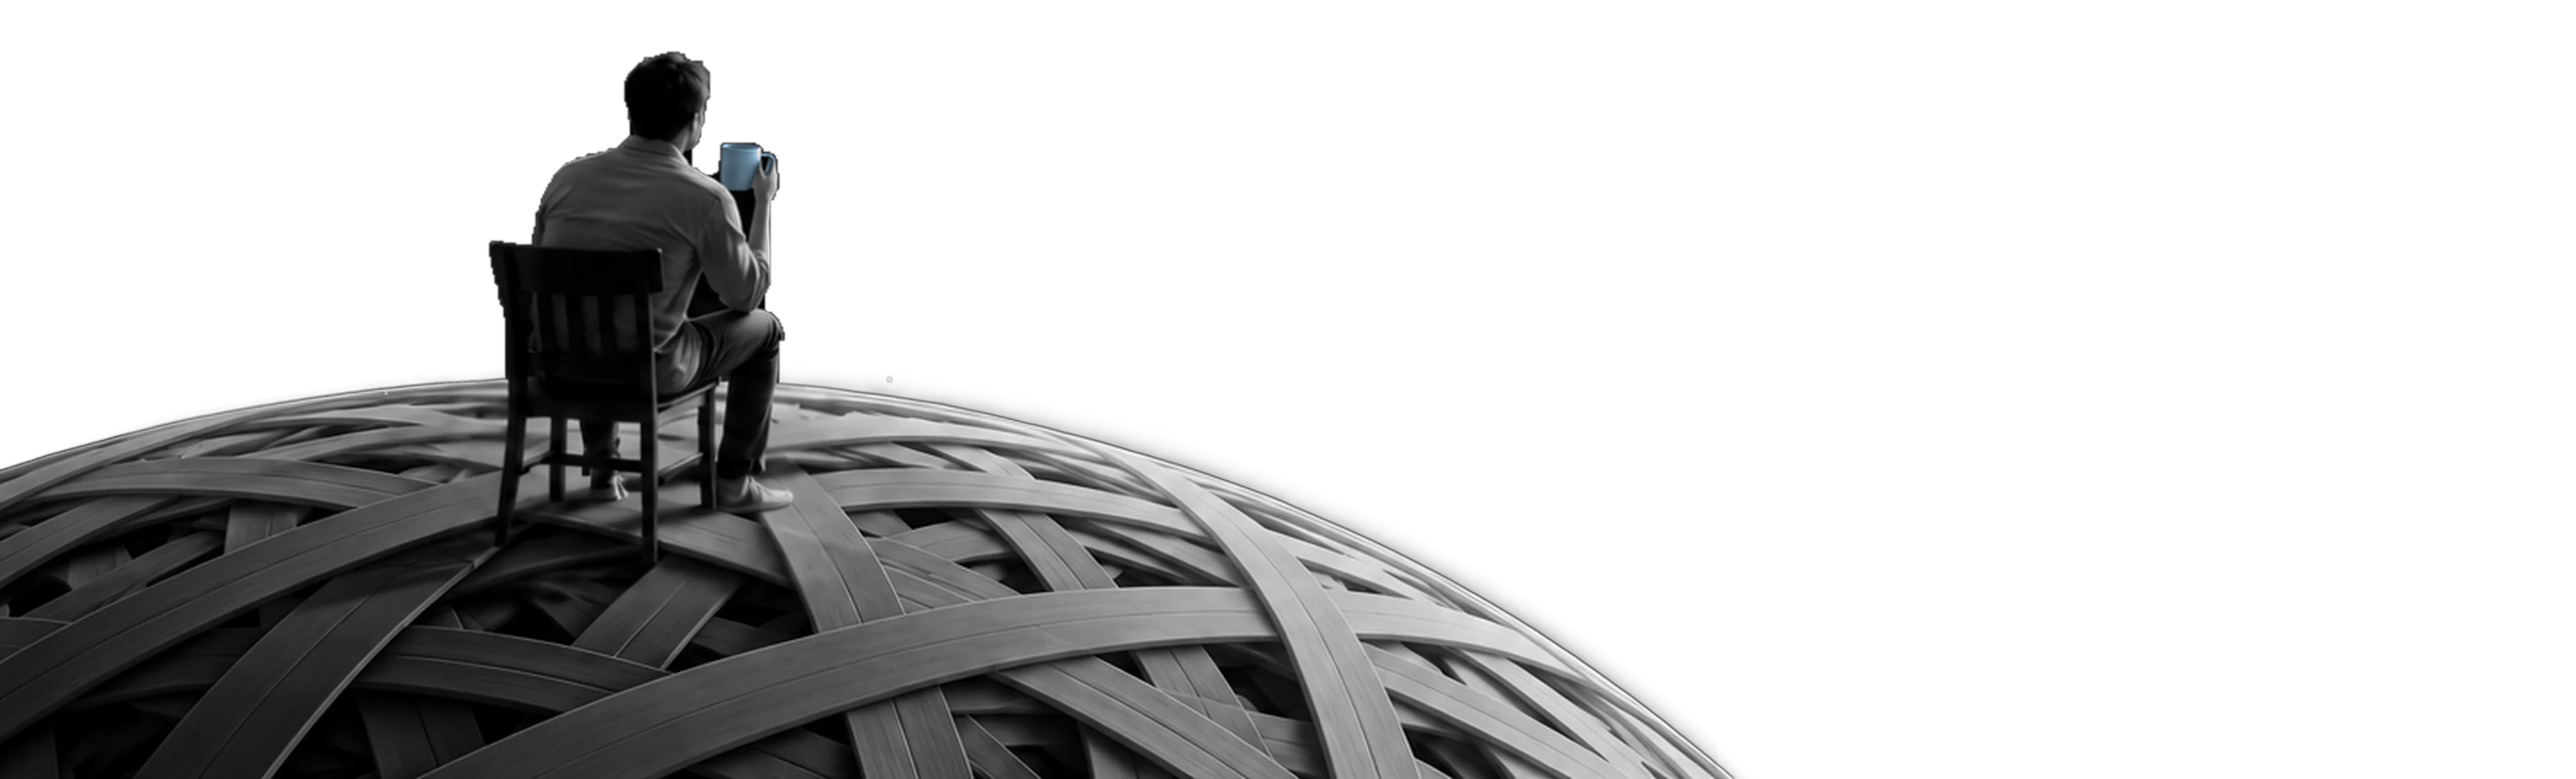
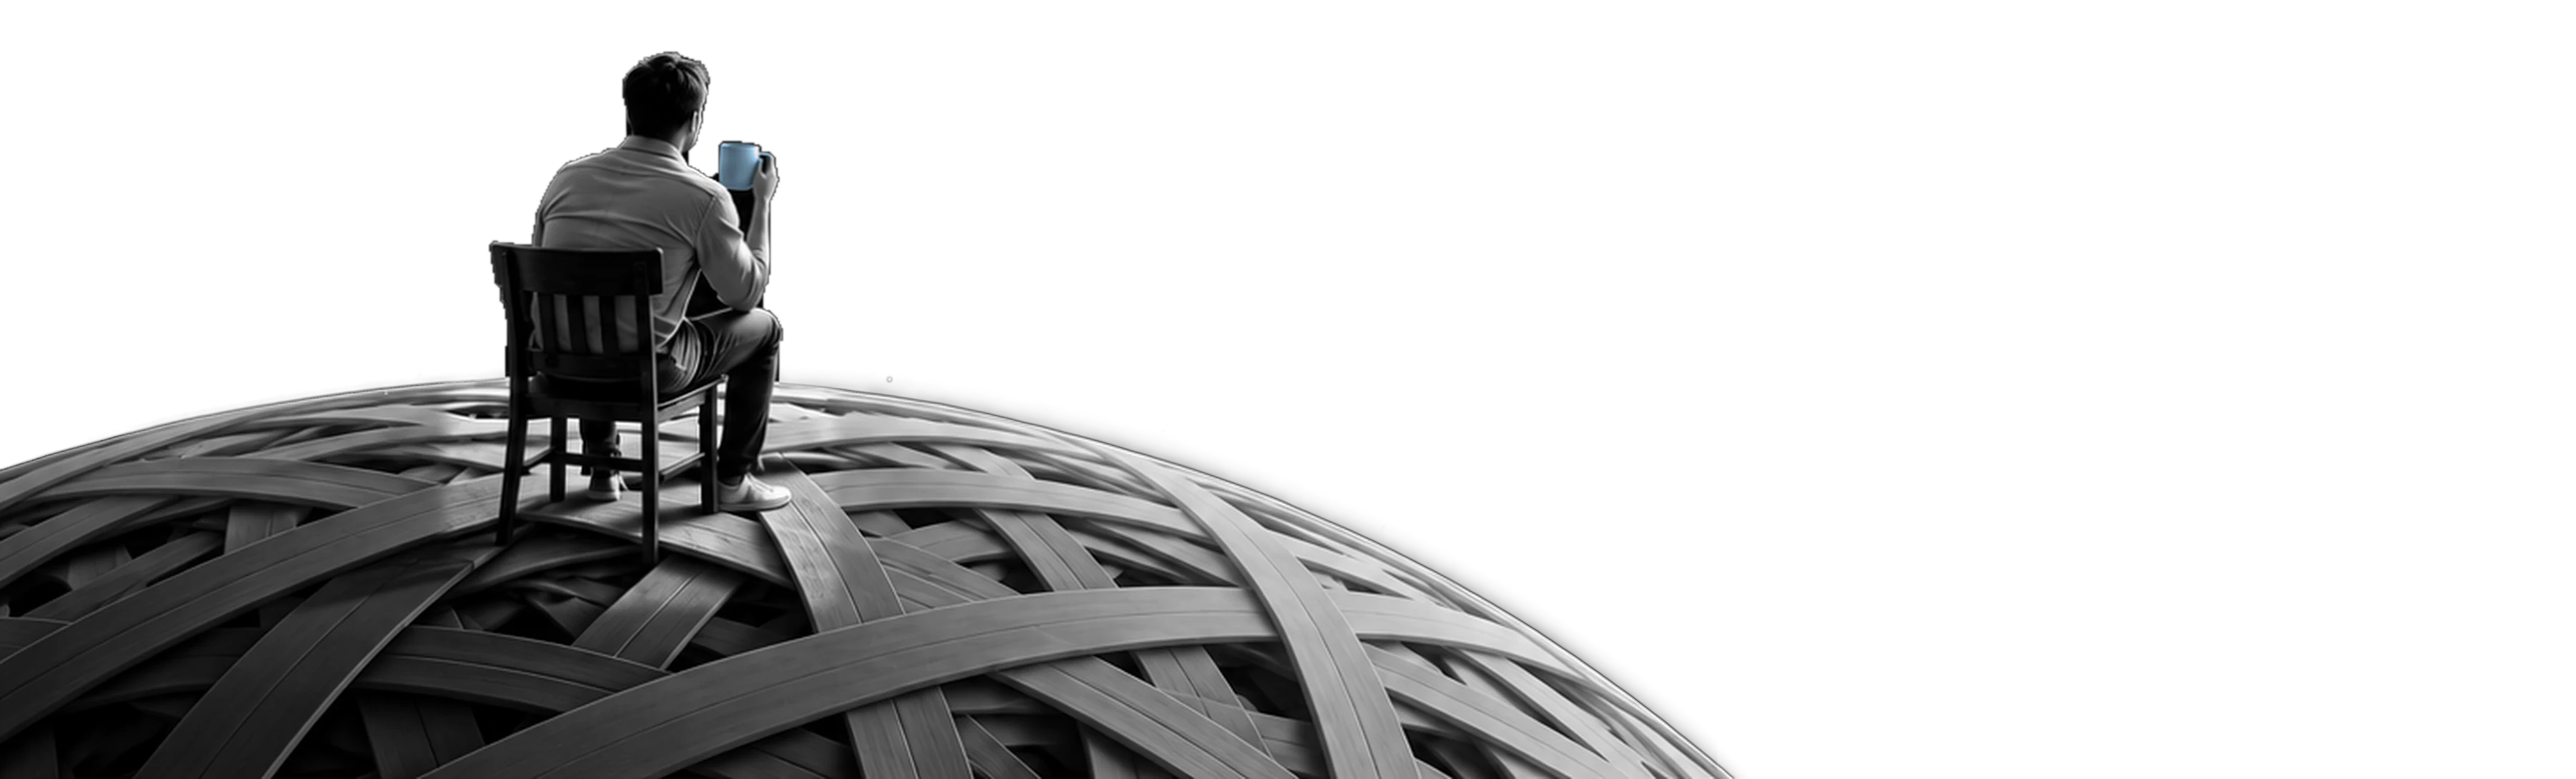
Coffee version: new, more realistic coffee artwork

Changed region(s): [[0.1556, 0.0624, 0.3422, 0.7798], [0.1867, 0.7174, 0.2178, 0.7486]]

diff --git a/index.html b/index.html
@@ -14,7 +14,7 @@
 <meta name="twitter:card" content="summary">
 <link rel="icon" href="favicon.png" type="image/png">
 <link rel="apple-touch-icon" href="apple-touch-icon.png">
-<link rel="preload" href="foreground.webp?v=coffee1" as="image" type="image/webp">
+<link rel="preload" href="foreground.webp?v=coffee2" as="image" type="image/webp">
 <link rel="preconnect" href="https://fonts.googleapis.com">
 <link rel="preconnect" href="https://fonts.gstatic.com" crossorigin>
 <link href="https://fonts.googleapis.com/css2?family=Inter+Tight:wght@300;400;500;600&family=JetBrains+Mono:wght@400;500&display=swap" rel="stylesheet">
@@ -117,7 +117,7 @@ footer{max-width:1180px;margin:0 auto;padding:0 clamp(24px,5vw,56px) 48px;displa
 </nav>
 
 <header class="hero">
-  <div class="fg" aria-hidden="true"><img src="foreground.webp?v=coffee1" alt="" width="3600" height="1090" decoding="async" fetchpriority="high"></div>
+  <div class="fg" aria-hidden="true"><img src="foreground.webp?v=coffee2" alt="" width="3600" height="1090" decoding="async" fetchpriority="high"></div>
 
   <div class="copy">
     <a class="yc reveal" href="https://www.ycombinator.com" target="_blank" rel="noopener"><svg><use href="#yc"/></svg>Backed by Y Combinator</a>
